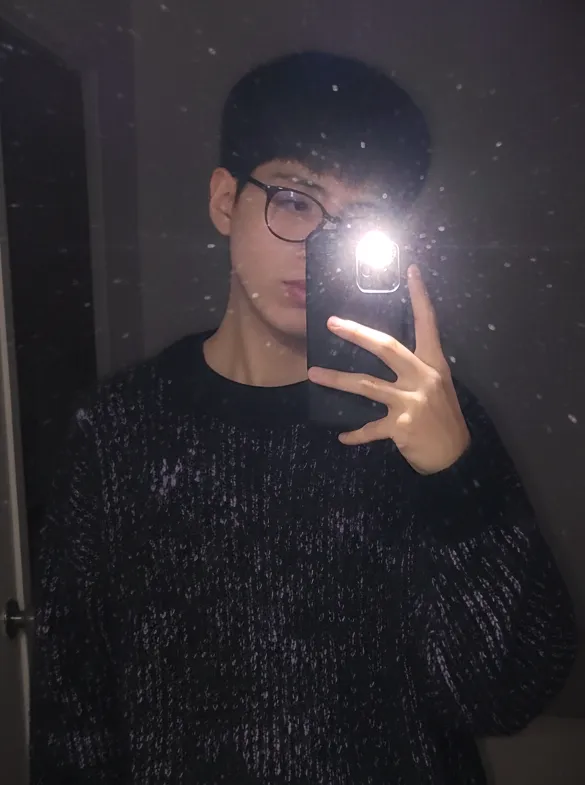
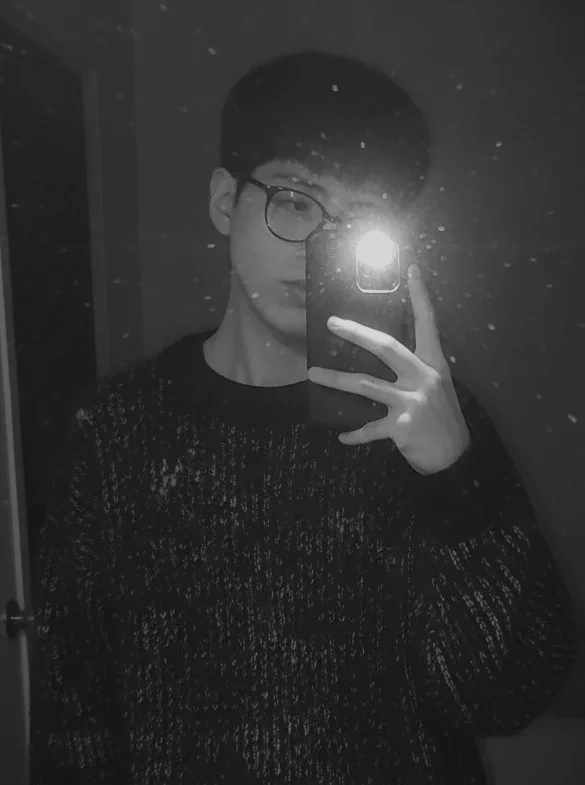
feat: foto de perfil en gris en el propio archivo y sin clic derecho, arrastre ni selección sobre la imagen

Changed region(s): [[0.3385, 0.1834, 0.8, 0.6115]]

diff --git a/src/components/Sidebar.jsx b/src/components/Sidebar.jsx
@@ -42,7 +42,7 @@ const Sidebar = ({ view }) => {
   return (
     <aside className="sidebar" aria-label="Perfil y navegación">
       <div className="profile">
-        {/* La foto en blanco y negro; al pasar el mouse recupera su color. */}
+        {/* La foto ya es en blanco y negro (el archivo mismo, no un filtro); al pasar el mouse sube un poco de brillo. */}
         <div className="avatar">
           <img
             className="avatar-photo"
@@ -50,17 +50,8 @@ const Sidebar = ({ view }) => {
             alt={`Retrato de ${meta.name}`}
             fetchPriority="high"
             decoding="async"
+            draggable={false}
           />
-          <svg className="avatar-defs" width="0" height="0" aria-hidden="true" focusable="false">
-            <filter id="photo-gray" colorInterpolationFilters="sRGB">
-              <feColorMatrix type="saturate" values="0" />
-              <feComponentTransfer>
-                <feFuncR type="table" tableValues="0.04 0.84" />
-                <feFuncG type="table" tableValues="0.04 0.84" />
-                <feFuncB type="table" tableValues="0.04 0.84" />
-              </feComponentTransfer>
-            </filter>
-          </svg>
         </div>
         <span className="chip chip--ok">
           <span className="status-dot" aria-hidden="true" />

diff --git a/src/styles/shell.css b/src/styles/shell.css
@@ -399,14 +399,14 @@ p {
   transition: opacity 0.4s ease;
 }
 
-/* La foto en blanco y negro (filtro #photo-gray de Sidebar.jsx). */
+/* La foto ya viene en blanco y negro en el archivo. Sin eventos de puntero, el clic derecho cae en el contenedor y no ofrece
+   "abrir imagen en una pestaña" ni "guardar imagen como", y no se puede arrastrar ni seleccionar. Frena al curioso casual,
+   pero no protege la imagen: la dirección del archivo es pública (la vista previa de LinkedIn y WhatsApp la necesita). */
 .avatar-photo {
   object-position: center 20%;
-  filter: url(#photo-gray);
-}
-
-.avatar-defs {
-  position: absolute;
+  pointer-events: none;
+  user-select: none;
+  -webkit-user-drag: none;
 }
 
 /* Marcas de esquina, como un visor técnico */
